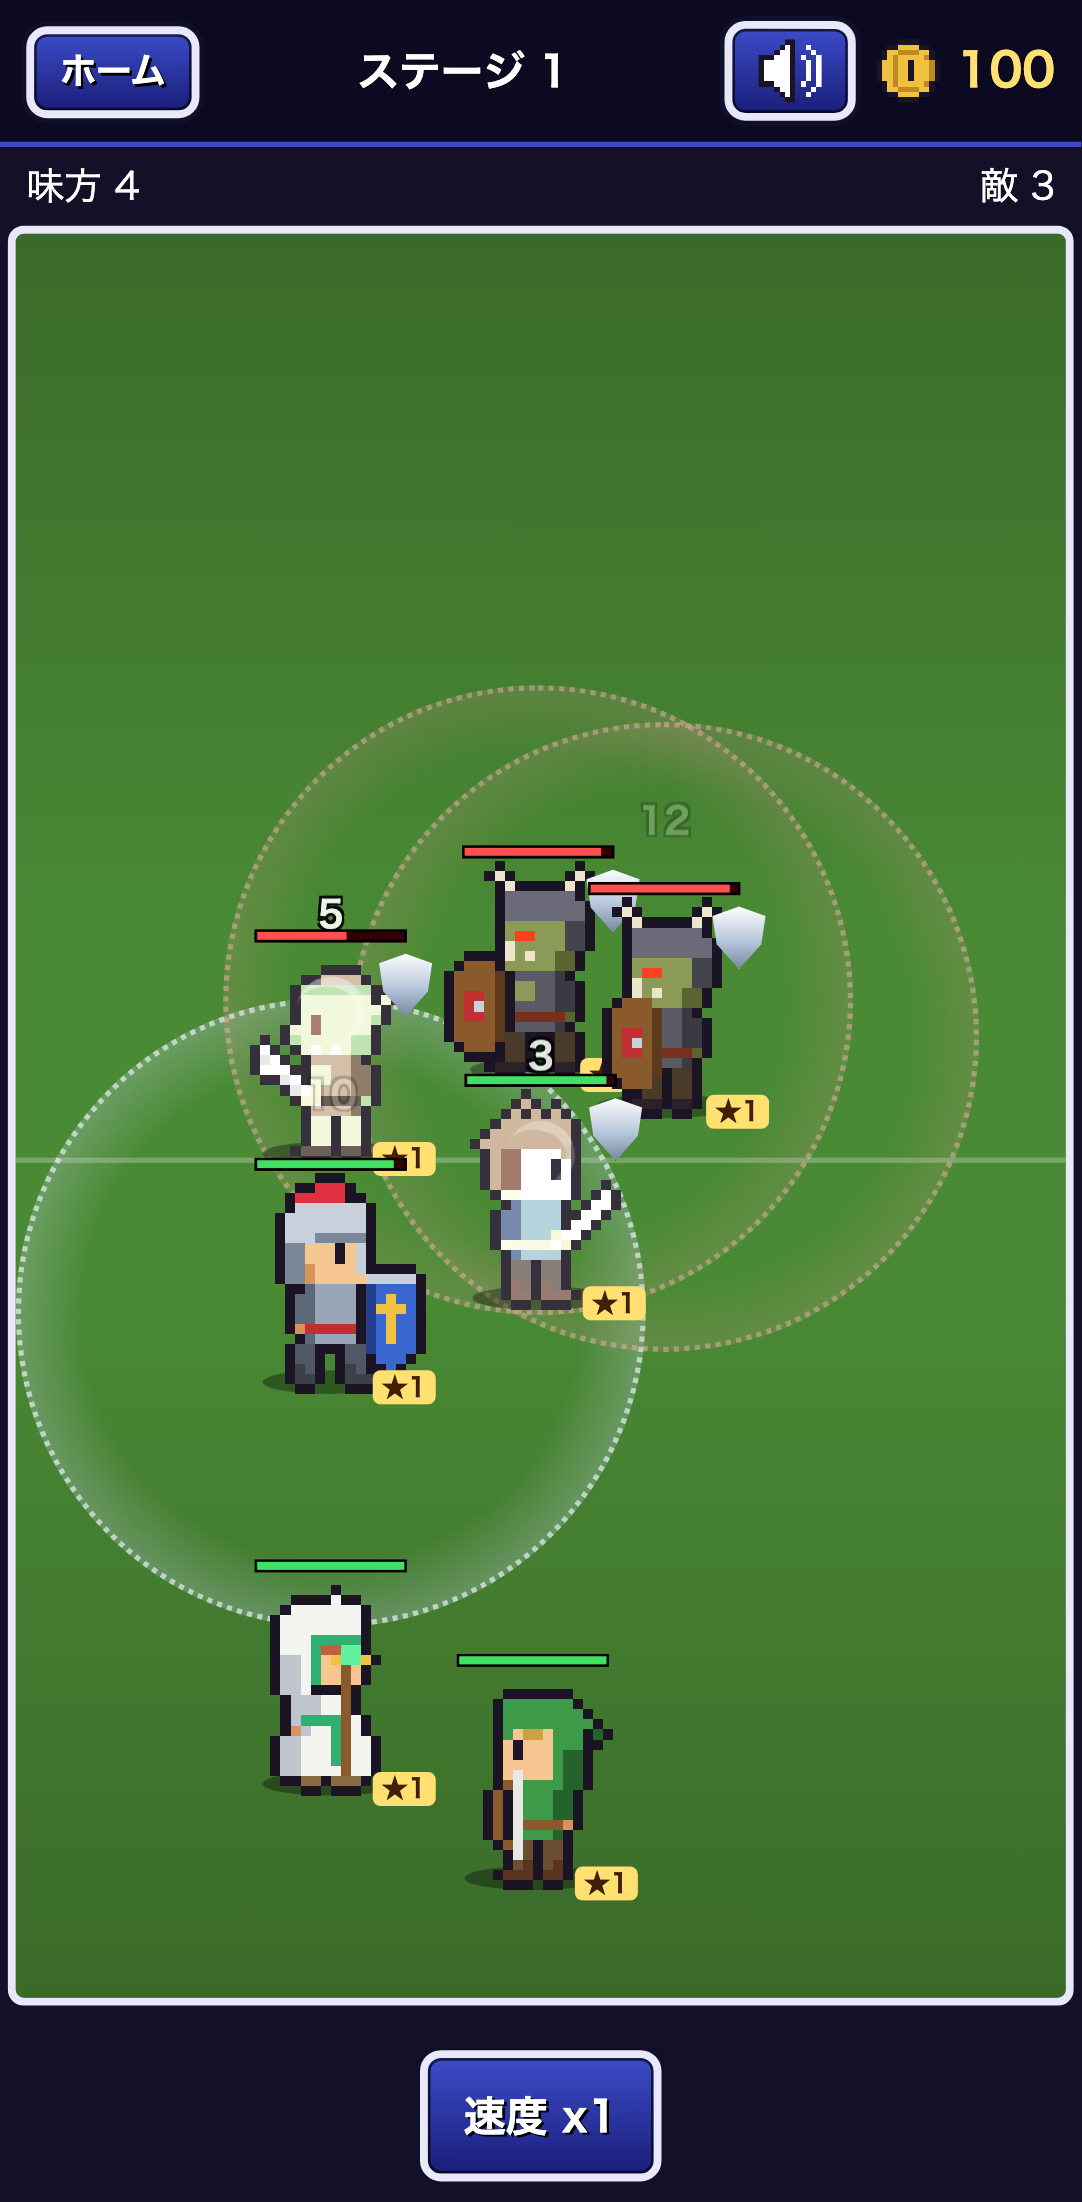
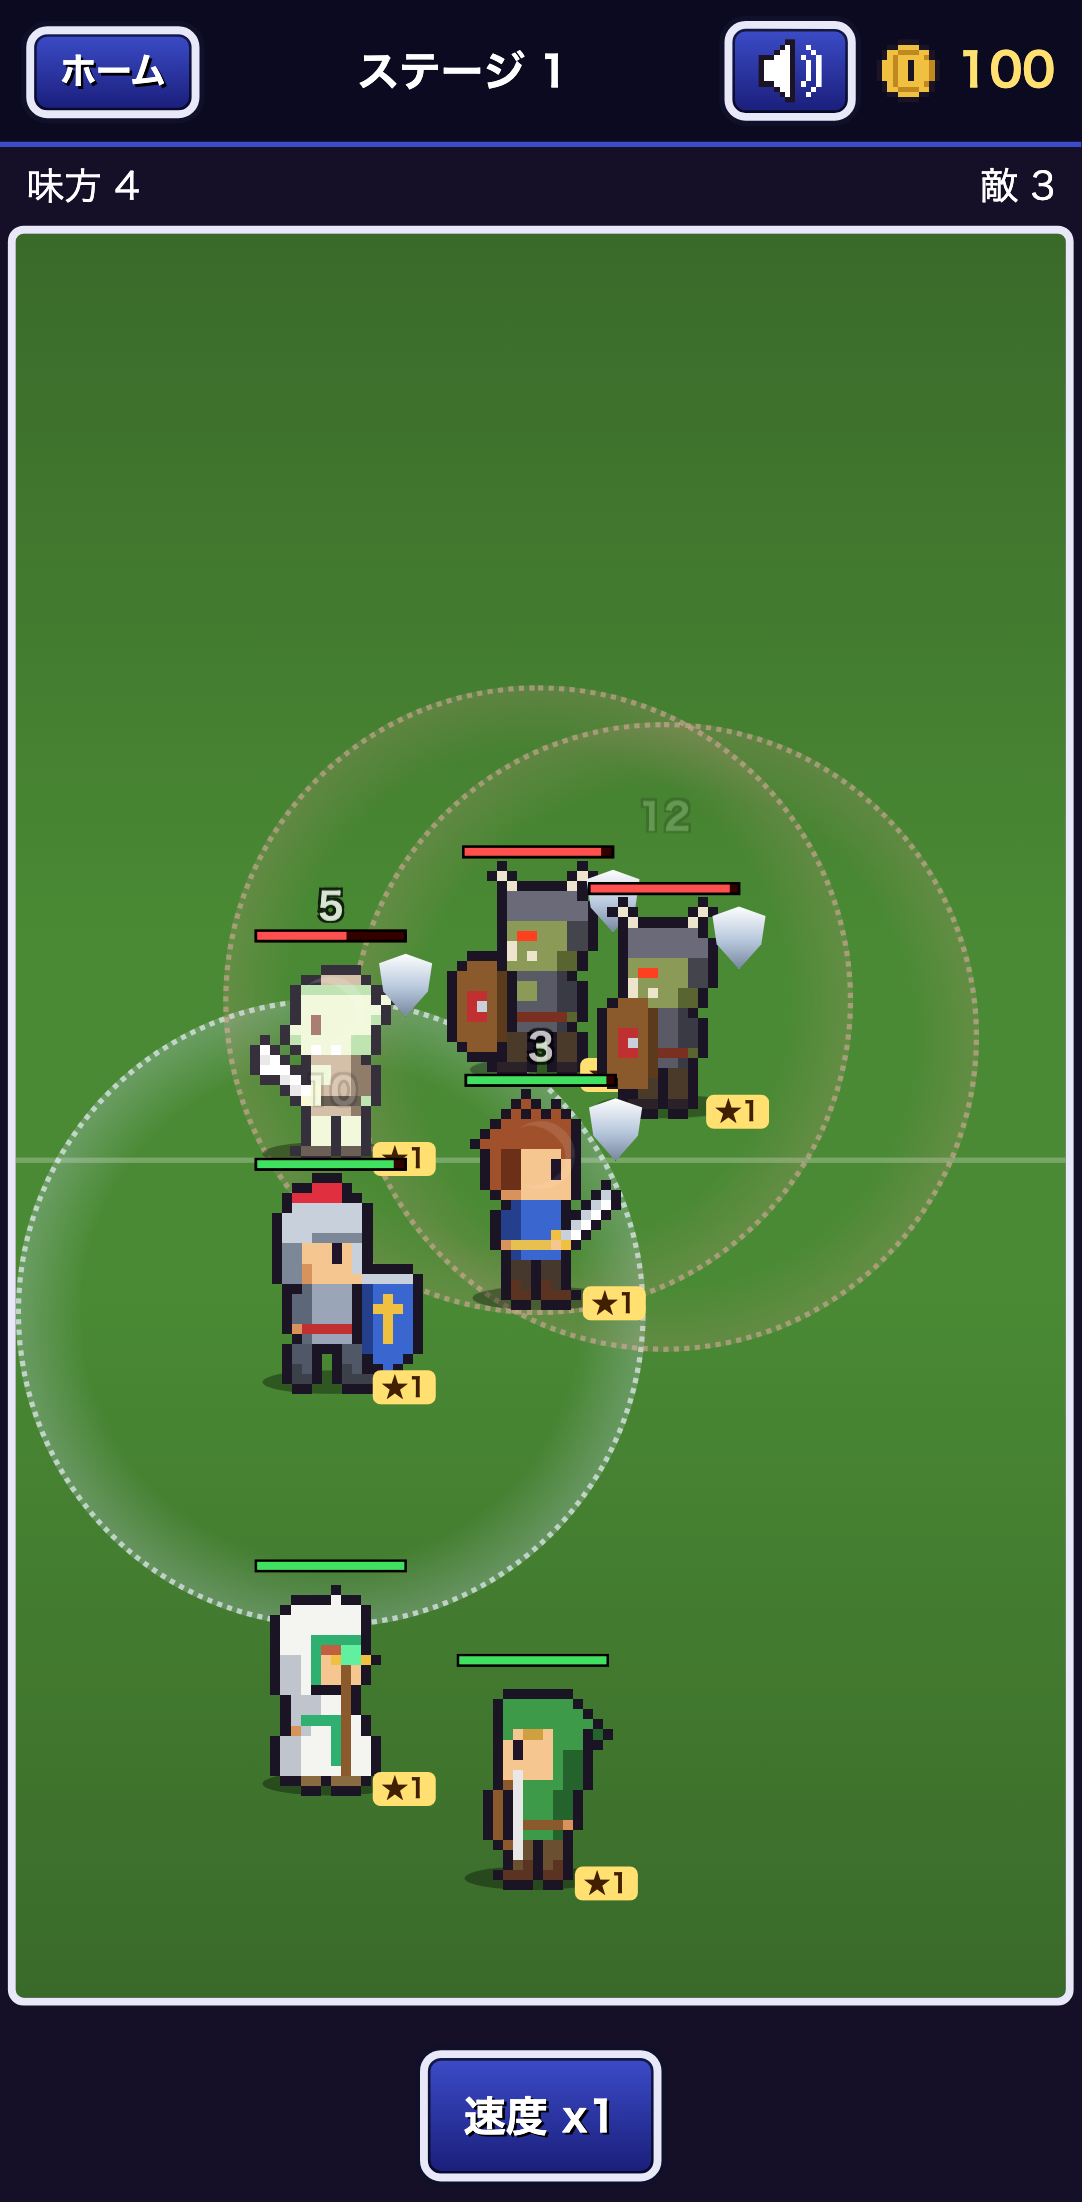
Boss HP bar above the field, drop the BOSS labels, centre the start button text
- Boss name + HP bar now sit in the info row above the field instead of over
  the units; removed the BOSS label on the boss and the BOSS tag by the stage
- Home screen: children of the scrolling body no longer shrink, so the
  Start Game button keeps its padding and its text is vertically centred

diff --git a/css/style.css b/css/style.css
@@ -46,6 +46,8 @@ img, .sprite { image-rendering: pixelated; image-rendering: crisp-edges; }
 #screen-battle .topbar .stage-label { flex: 1; text-align: center; }
 
 /* Home */
+/* children keep their natural height (the list scrolls instead of squashing the buttons) */
+.home-body > * { flex-shrink: 0; }
 .home-body { flex: 1; overflow-y: auto; padding: 14px; display: flex; flex-direction: column; gap: 10px; -webkit-overflow-scrolling: touch; }
 .home-actions { display: flex; gap: 10px; justify-content: space-between; }
 .home-body h2 { margin: 8px 0 0; font-size: 1.05rem; color: #ffe070; }
@@ -67,7 +69,7 @@ img, .sprite { image-rendering: pixelated; image-rendering: crisp-edges; }
 .sprite { background-repeat: no-repeat; background-size: 700% 100%; background-position: 0 0; }
 
 /* Battle */
-.battle-info { display: flex; justify-content: space-between; padding: 4px 10px; font-size: .9rem; min-height: 26px; }
+.battle-info { display: flex; justify-content: space-between; align-items: center; padding: 4px 10px; font-size: .9rem; min-height: 26px; }
 #field-wrap { flex: 1; display: flex; justify-content: center; align-items: flex-start; min-height: 0; }
 #field { position: relative; background:
   linear-gradient(#3a6a2a, #4a8a34 40%, #4a8a34 60%, #3a6a2a);
@@ -277,13 +279,14 @@ body.big-board #prep-panel .hint { display: none; }
 #btn-auto-stop { margin-left: 8px; }
 
 /* ---- bosses ---- */
-.boss-tag { background: #c01830; color: #fff; font-size: 11px; font-weight: bold; padding: 1px 5px; border-radius: 3px; letter-spacing: 1px; animation: bosspulse 1.2s infinite alternate; }
-@keyframes bosspulse { from { box-shadow: 0 0 0 #ff4060; } to { box-shadow: 0 0 8px #ff4060; } }
 .unit.boss .sprite { inset: auto; left: -45%; bottom: 0; width: 190%; height: 190%; filter: drop-shadow(0 0 3px var(--boss-glow)) drop-shadow(0 0 1px var(--boss-glow)); }
 .unit.boss.hit .sprite { filter: brightness(2.2) saturate(.3); }
 .unit.boss .shadow { left: -10%; right: -10%; bottom: 0; height: 18%; }
-.unit.boss .hpbar { left: -35%; right: -35%; top: -95%; height: 7px; }
-.unit.boss .boss-label { position: absolute; left: 50%; top: calc(-95% - 14px); transform: translateX(-50%); font-size: 9px; line-height: 11px; font-weight: bold; color: #fff; background: #c01830; border-radius: 3px; padding: 0 4px; letter-spacing: 1px; white-space: nowrap; }
+.unit.boss .hpbar { display: none; }   /* boss HP is shown in the info row (#boss-hp) */
+.boss-hp { flex: 1; min-width: 0; margin: 0 10px; display: flex; flex-direction: column; align-items: center; gap: 2px; }
+.boss-hp-name { font-size: .75rem; font-weight: bold; color: #fff; text-shadow: 0 0 6px var(--boss-glow), 1px 1px 0 #000; white-space: nowrap; overflow: hidden; text-overflow: ellipsis; max-width: 100%; }
+.boss-hp-bar { width: 100%; max-width: 260px; height: 8px; background: #300; border: 1px solid #000; box-shadow: 0 0 4px var(--boss-glow); }
+.boss-hp-bar .fill { height: 100%; width: 100%; background: linear-gradient(#ff7070, #c01830); transition: width .15s; }
 .quake.big { width: 150px; height: 56px; margin: -28px 0 0 -75px; }
 .boss-banner { position: fixed; left: 0; right: 0; top: 38%; z-index: 40; pointer-events: none; text-align: center; padding: 10px 8px;
   background: linear-gradient(90deg, transparent, rgba(20,0,10,.85) 20%, rgba(20,0,10,.85) 80%, transparent);

diff --git a/js/main.js b/js/main.js
@@ -237,7 +237,6 @@ function goHome() {
 function renderHome() {
   $('#home-coins').textContent = store.data.coins;
   $('#home-stage').textContent = t('common.stage', { n: store.data.stage });
-  renderBossTag('#home-boss');
   $('#roster-title').textContent = t('home.roster', { n: store.data.roster.length });
   const roster = $('#roster'); roster.innerHTML = '';
   const sorted = [...store.data.roster].sort((a, b) => TYPES.indexOf(a.type) - TYPES.indexOf(b.type) || b.rank - a.rank);
@@ -441,11 +440,14 @@ function layoutField() {
 }
 
 function unitSize() { return Math.round(G.cs * 1.15); }
-// "BOSS" tag next to the stage number on boss stages (every 10th stage)
-function renderBossTag(sel) {
-  const b = bossForStage(store.data.stage), e = $(sel);
-  e.classList.toggle('hidden', !b);
-  if (b) { e.textContent = t('boss.mark'); e.title = charName(b.type, 'enemy'); }
+// Boss HP is shown in the info row above the field (a bar over the big sprite would cover the units behind it).
+function renderBossHp(hp, maxHp) {
+  const b = bossForStage(store.data.stage), box = $('#boss-hp');
+  box.classList.toggle('hidden', !b);
+  if (!b) return;
+  box.style.setProperty('--boss-glow', BOSS_GLOW[b.element]);
+  box.querySelector('.boss-hp-name').textContent = charName(b.type, 'enemy');
+  box.querySelector('.fill').style.width = (maxHp ? Math.max(0, hp / maxHp) * 100 : 100) + '%';
 }
 
 function makeUnitEl(team, type, rank) {
@@ -462,7 +464,6 @@ function makeUnitEl(team, type, rank) {
   if (boss) {   // drawn about twice as big, glowing in its element colour, with a BOSS label
     u.classList.add('boss'); u.dataset.boss = boss.index; u.dataset.element = boss.element;
     u.style.setProperty('--boss-glow', BOSS_GLOW[boss.element]);
-    const tag = el('div', 'boss-label'); tag.textContent = t('boss.mark'); u.appendChild(tag);
   }
   u._sprite = s; u._fill = fill;
   if (team === 'enemy') u.classList.add('facing-left');
@@ -491,7 +492,6 @@ function enterPrep() {
 
 function renderTopbar() {
   $('#battle-stage').textContent = t('common.stage', { n: store.data.stage });
-  renderBossTag('#battle-boss');
   $('#battle-coins').textContent = store.data.coins;
 }
 
@@ -546,6 +546,7 @@ function renderPrep() {
   }
   $('#info-left').textContent = '';
   $('#info-right').textContent = t('battle.enemies', { n: wave.units.length });
+  renderBossHp(1, 1);
   $('#btn-fight').disabled = store.placedCount() === 0;
 }
 
@@ -931,6 +932,8 @@ function updateBattleInfo() {
   const b = G.battle; if (!b) return;
   $('#info-left').textContent = t('battle.allies', { n: b.units.filter((u) => u.team === 'ally').length });
   $('#info-right').textContent = t('battle.enemies', { n: b.units.filter((u) => u.team === 'enemy').length });
+  const boss = b.units.find((u) => u.boss) || b.removed.find((u) => u.boss);
+  renderBossHp(boss ? boss.hp : 0, boss ? boss.maxHp : 1);
   $('#btn-speed').textContent = t('battle.speed', { n: G.speed });
 }
 

diff --git a/index.html b/index.html
@@ -31,7 +31,7 @@
     <!-- Home -->
     <section id="screen-home" class="screen" data-testid="screen-home">
       <header class="topbar">
-        <span class="stage-label" id="home-stage"></span><span class="boss-tag hidden" id="home-boss" data-testid="home-boss"></span>
+        <span class="stage-label" id="home-stage"></span>
         <button class="btn small btn-sound" data-testid="btn-sound"><img class="px-icon" alt=""></button>
         <span class="coins" data-testid="coins"><img class="px-icon" data-icon="coin" alt=""><b id="home-coins">0</b></span>
       </header>
@@ -54,12 +54,13 @@
     <section id="screen-battle" class="screen" data-testid="screen-battle">
       <header class="topbar">
         <button id="btn-battle-home" class="btn small" data-i18n="prep.home"></button>
-        <span class="stage-label" id="battle-stage"></span><span class="boss-tag hidden" id="battle-boss" data-testid="battle-boss"></span>
+        <span class="stage-label" id="battle-stage"></span>
         <button class="btn small btn-sound" data-testid="btn-sound-battle"><img class="px-icon" alt=""></button>
         <span class="coins"><img class="px-icon" data-icon="coin" alt=""><b id="battle-coins">0</b></span>
       </header>
       <div class="battle-info">
         <span id="info-left"></span>
+        <div id="boss-hp" class="boss-hp hidden" data-testid="boss-hp"><span class="boss-hp-name"></span><div class="boss-hp-bar"><div class="fill"></div></div></div>
         <span id="info-right"></span>
       </div>
       <div id="field-wrap">

diff --git a/js/i18n.js b/js/i18n.js
@@ -359,7 +359,6 @@ const BOSS_STRINGS = {
   "fmt": "{elem}{body}",
   "desc": "BOSS：{body}／{elem}／魔法ダメージ半減",
   "appear": "ボス出現！",
-  "mark": "BOSS",
   "elems": [
    "紅蓮の",
    "氷獄の",
@@ -403,7 +402,6 @@ const BOSS_STRINGS = {
   "fmt": "{elem} {body}",
   "desc": "BOSS: {body} / {elem} / halves magic damage",
   "appear": "A boss appears!",
-  "mark": "BOSS",
   "elems": [
    "Crimson",
    "Frost",
@@ -447,7 +445,6 @@ const BOSS_STRINGS = {
   "fmt": "{elem}{body}",
   "desc": "BOSS：{body}／{elem}／魔法伤害减半",
   "appear": "BOSS 出现！",
-  "mark": "BOSS",
   "elems": [
    "红莲",
    "冰狱",
@@ -491,7 +488,6 @@ const BOSS_STRINGS = {
   "fmt": "{elem} {body}",
   "desc": "BOSS: {body} / {elem} / 마법 피해 절반",
   "appear": "보스 출현!",
-  "mark": "BOSS",
   "elems": [
    "홍련의",
    "빙옥의",
@@ -534,7 +530,7 @@ const BOSS_STRINGS = {
 };
 for (const [lang, b] of Object.entries(BOSS_STRINGS)) {
   const S = STRINGS[lang];
-  S['boss.appear'] = b.appear; S['boss.mark'] = b.mark;
+  S['boss.appear'] = b.appear;
   BOSS_ELEMENTS.forEach((e, i) => { S['bossElem.' + e.id] = b.elems[i]; S['bossTrait.' + e.id] = b.traits[i]; });
   BOSS_BODIES.forEach((d, i) => { S['bossBody.' + d.id] = b.bodies[i]; S['bossBodyDesc.' + d.id] = b.bdesc[i]; });
   for (const bo of BOSSES) {

diff --git a/README.md b/README.md
@@ -48,7 +48,7 @@ npm start            # node tests/serve.mjs 8080 0.0.0.0（依存なしの簡易
 - ボス：10ステージごとに大きなボスが1体登場（全50種＝体10種×属性5種。ステージ10〜100で10種の体が紅蓮属性で、110〜200は氷獄…と順に登場し、500以降は繰り返し）
   - 体ごとの攻撃：ゴブリンキング（なぎ払い）／オークジェネラル（広い範囲の仲間の防御力を上げる）／リザードレンジャー（3体同時に射る）／スライムロード（毒の飛沫）／ギガゴーレム（広い地震＋長いスタン）／ヴァンパイアバット（弱い相手を襲い吸血）／スケルトンロード（骸骨兵召喚）／マッシュルームロード（回復＋胞子の魔法）／ドラゴンロード（長いブレス）／リッチキング（広い闇魔法＋骸骨兵召喚）
   - 属性ごとの特性：紅蓮＝攻撃力が高い／氷獄＝防御力が非常に高い／雷鳴＝攻撃が速い／冥闇＝与えたダメージでHPを吸収／聖光＝HPが徐々に回復
-  - ボスは約2倍の大きさで属性の色に光り、HPバーの上に「BOSS」。魔法ダメージは半減。ステージ名の横に「BOSS」マーク、戦闘開始時に名前のバナーを表示。ボスステージの勝利はコイン2倍
+  - ボスは約2倍の大きさで属性の色に光る。名前とHPバーはフィールドの上（味方・敵の数の間）に表示し、ほかのキャラに重ならない。魔法ダメージは半減。戦闘開始時に名前のバナーを表示。ボスステージの勝利はコイン2倍
   - ボスは編成の1枠を使う（敵の数は変わらない）。敵全体の強さは通常どおりの曲線に合わせるので、ボスの分だけ他のモンスターは控えめになる（基準の編成で前後のステージより1〜5割ほど手強い）
 - BGM（オリジナル曲。音声ファイルは使わず Web Audio API でチップチューンを合成）
   - タイトル・ホーム・編成中：待機曲（ハ長調・92BPM。やわらかいメロディとアルペジオ、ドラムなし）
